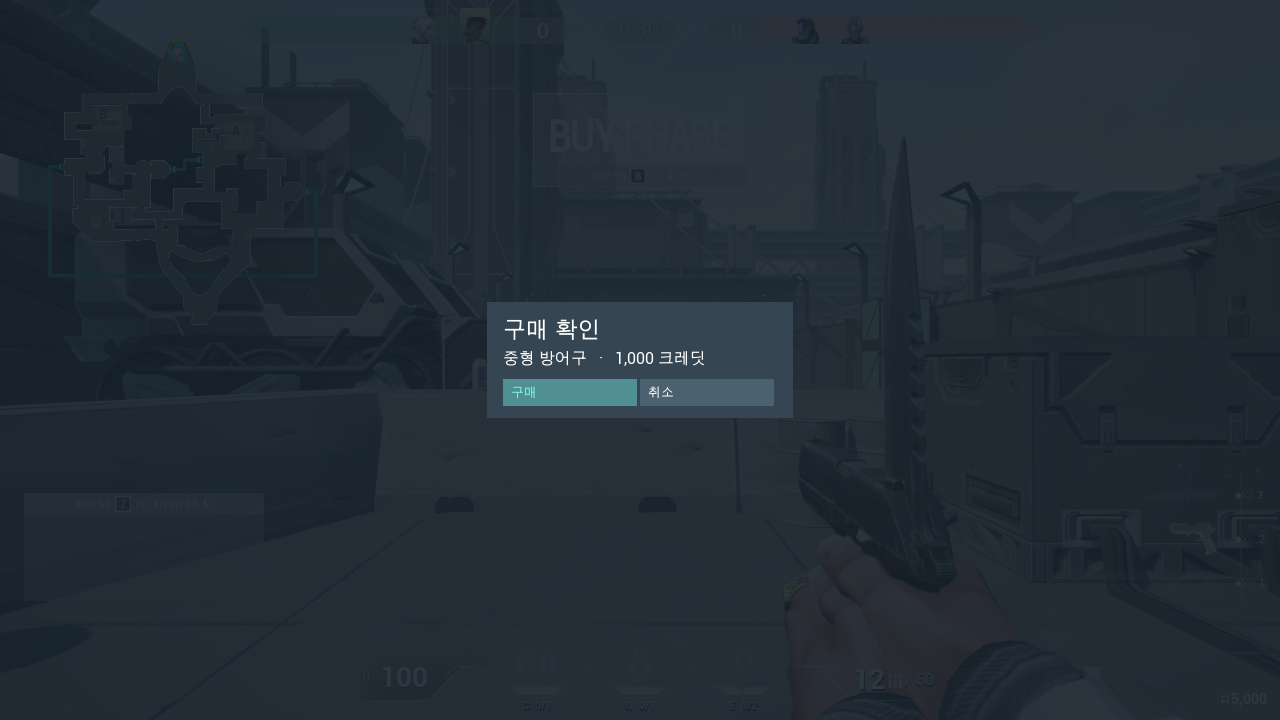
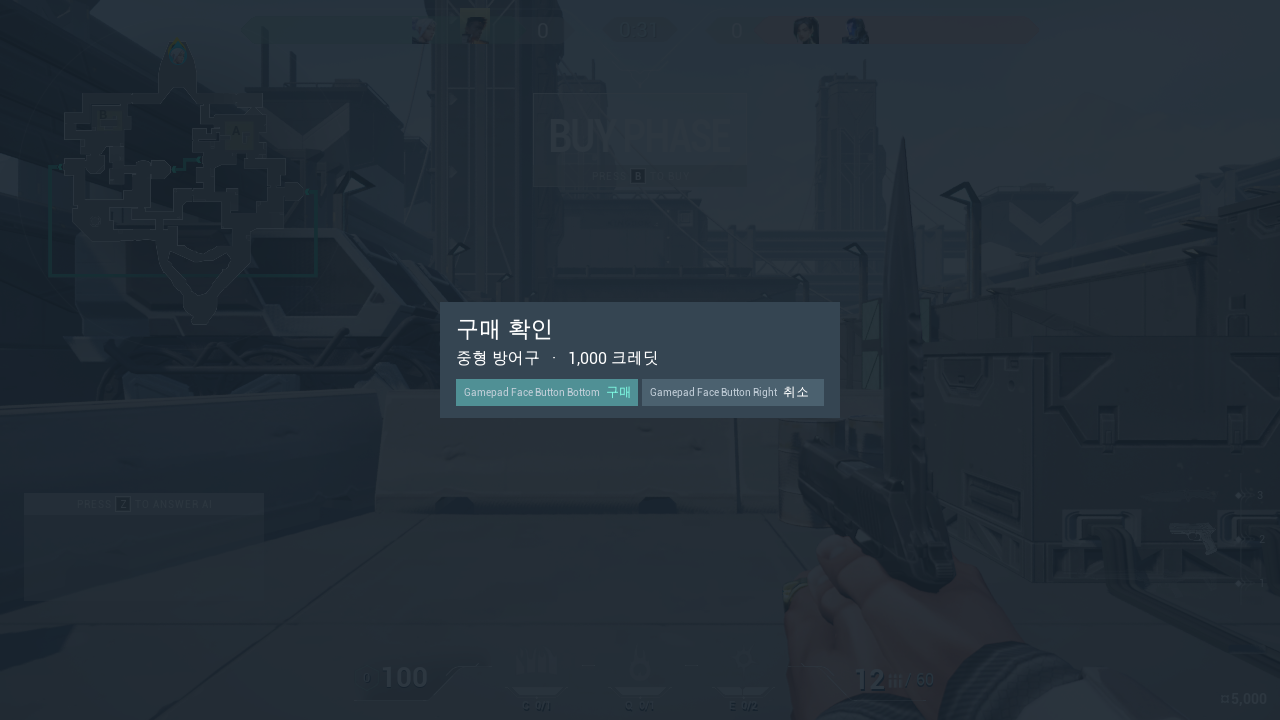
docs(ui): 입력 후속 개선의 설계 근거와 회귀 결과를 기록
- Architecture에 CommonUI 입력 액션, 모달 WBP 계약, 결정 근거 표를 추가한다.
- 요청 번호 정책 변경과 재진입 잠금 제거 근거를 Architecture와 Wiki 4.4에 반영한다.
- 커밋 80a33a81 기준 회귀 52/52 PASS 결과와 패드·키보드 모달 캡처를 추가한다.
- 실물 입력·아이콘·패키지 쿡과 첫 실행 정지 원인 미확인을 NOT RUN 범위로 남긴다.

Changed region(s): [[0.3438, 0.3972, 0.6562, 0.5806]]

diff --git a/Doc/Wiki/4.2_CommonUI-Input-Architecture.md b/Doc/Wiki/4.2_CommonUI-Input-Architecture.md
@@ -6,9 +6,21 @@
 
 ## 화면 계층과 선택 이유
 
-UShopLayer가 UCommonActivatableWidgetStack을 소유하고 UShopScreen이 WBP_MatchMap_ShopUI를 담는다. UShopConfirmation은 별도 Activatable 항목이다. 한 화면을 닫으면 하위 화면과 이전 버튼 포커스로 복귀한다. 게임 조작 중 상시 표시되는 HUD는 기존 UMG와 모델 구독으로 유지했다.
+UShopLayer가 UCommonActivatableWidgetStack을 소유하고 UShopScreen이 WBP_MatchMap_ShopUI를 담는다. UShopConfirmation은 별도 Activatable 항목이고 화면은 WBP_ShopConfirmation이 가진다. 한 화면을 닫으면 하위 화면과 이전 버튼 포커스로 복귀한다. 복귀 대상은 bAutoRestoreFocus로 CommonUI가 저장한다. 게임 조작 중 상시 표시되는 HUD는 기존 UMG와 모델 구독으로 유지했다.
 
 메뉴 활성화와 화면 수명은 CommonUI, 실제 구매 판정은 서버, 상품 클릭의 단순 전달은 기존 Blueprint가 담당한다. 이름의 접두사·접미사를 해석하던 버튼 분류는 명시적인 버튼 바인딩으로 바꿨다. Focusable 속성은 에디터에서 편집한다.
+
+## UI 입력 액션
+
+처음 리팩터링은 CommonUI를 스택·입력 모드·포커스 대상에만 쓰고 뒤로 가기·확인·LB/RB를 화면 코드의 키 판정으로 처리했다. 후속 개선에서 키 판정을 지우고 CommonUI 액션으로 옮겼다.
+
+- DT_UIInputActions에 Confirm·Back·ShopClose·ShopPreviousCategory·ShopNextCategory 행을 둔다. BP_UIInputData가 Default Click·Back을 지정하고 프로젝트 설정(Common Input)이 이를 가리킨다.
+- 상점 화면은 bIsBackHandler로 뒤로 가기를 받고, 상점 키와 LB/RB는 RegisterUIActionBinding으로 등록한다.
+- 상품 확인은 포커스된 버튼의 기본 Accept 처리에 맡겨 패드와 마우스가 같은 클릭 경로를 지난다.
+- 확인 모달의 버튼은 TriggeringInputAction에 Default Click·Back을 지정한다. CommonButton이 바인딩과 키 표시 위치(UCommonActionWidget)를 관리한다.
+- 사용할 수 있는 패드·키보드 아이콘 에셋이 프로젝트와 엔진에 없어 키 이름 텍스트로 표시한다. 입력 방식이 바뀌면 Enter·Esc와 패드 버튼 이름이 바뀐다.
+
+결정 근거와 계약은 [Architecture](https://github.com/chungheonLee0325/VALORANT/blob/main/Doc/UIRefactoring/Architecture.md)에 정리했다.
 
 ## 시작·유지·종료 입력
 
@@ -22,7 +34,7 @@ UAgentInputComponent는 상점 중 Move·Look·Fire·Skill·Weapon Switch의 새
 - [AgentInputComponent.cpp](https://github.com/chungheonLee0325/VALORANT/blob/main/UnrealEngine/Valorant/Source/Valorant/Player/Component/AgentInputComponent.cpp)
 - [AgentPlayerController.cpp](https://github.com/chungheonLee0325/VALORANT/blob/main/UnrealEngine/Valorant/Source/Valorant/Player/AgentPlayerController.cpp)
 
-Slate의 LB/RB·D-pad·A/B를 주입하고 실제 UButton의 포커스를 조회한다. Enhanced Input 액션으로 메뉴 중 차단과 게임 복귀를 검사한다. 실물 패드 검증은 별도 항목이다. [실행 결과](https://github.com/chungheonLee0325/VALORANT/blob/main/Doc/UIRefactoring/RegressionTests.md)
+Slate의 LB/RB·D-pad·A/B를 주입하고 실제 UButton의 포커스를 조회한다. CommonUI 라우터의 활성 바인딩으로 화면·모달 액션을 확인하고, 입력 방식을 바꿔 모달 키 표시가 바뀌는지 본다. Enhanced Input 액션으로 메뉴 중 차단과 게임 복귀를 검사한다. 실물 패드·키보드 입력과 아이콘 표시는 검증하지 않았다. [실행 결과](https://github.com/chungheonLee0325/VALORANT/blob/main/Doc/UIRefactoring/RegressionTests.md)
 
 ## 연결 문서
 

diff --git a/Doc/Wiki/4.5_Multiplayer-Regression-AI.md b/Doc/Wiki/4.5_Multiplayer-Regression-AI.md
@@ -2,7 +2,7 @@
 
 ## 분석과 구현
 
-팀 프로젝트의 기존 위젯과 호출 관계를 조사하고 서버 구매·UI 수명·Actor 정리의 경계를 개선한 개인 후속 작업이다. AI 코딩 에이전트는 코드 탐색·구현·빌드와 문서 작성을 보조했다. AgentMCP는 UE 5.5.4의 정확한 Valorant 작업트리에 연결해 실제 Widget Tree·그래프·바인딩을 읽고 WBP를 수정·컴파일하는 데 사용했다.
+팀 프로젝트의 기존 위젯과 호출 관계를 조사하고 서버 구매·UI 수명·Actor 정리의 경계를 개선한 개인 후속 작업이다. AI 코딩 에이전트는 코드 탐색·구현·빌드와 문서 작성을 보조했다. AgentMCP는 UE 5.5.4의 정확한 Valorant 작업트리에 연결해 실제 Widget Tree·그래프·바인딩을 읽고 WBP를 수정·컴파일하는 데 사용했다. 입력 후속 개선에서는 UI 입력 DataTable·Input Data·모달 WBP를 만들고 BindWidget 계약을 확인했다.
 
 리뷰에서 부착 성공 전에 소유권이 바뀌는 월드 획득 경로를 다시 찾았다. 무기 초기화에서 원격 참조가 준비되기 전 역참조한 크래시도 실제 로그로 추적했다. 에이전트의 결과는 빌드, 코드 검토, 실패 주입과 원격 상태 관찰을 거쳐 반영했다.
 
@@ -19,9 +19,12 @@ Run-UIRegression.ps1은 localhost의 실제 MatchMap에서 호스트 1개와 원
 - 서버 구매 판정·잔액·장비 슬롯과 Actor 수.
 - 원격 복제된 재화·소유권·3인칭 메시와 실제 HUD.
 - 모달 확인·취소와 UButton 포커스.
+- CommonUI 라우터의 활성 액션 바인딩과 입력 방식별 키 표시.
 - 상점 입력 차단과 연속 발사 종료, 눌린 키 해제.
 - 타임아웃 직후 새 구매와 늦은 응답.
 - 스킬 스택 감소, 피격·킬 피드, HUD 재생성.
+
+입력 후속 개선의 첫 두 실행에서 화면용 원격의 게임 스레드가 LB 주입 직후 프레임에서 멈췄다. 계측해 보니 LB 액션 처리와 키 주입 함수는 끝났다. 멈춘 동안 셰이더 컴파일 지연과 거리장 빌드 로그가 이어졌고, 캐시가 채워진 뒤 같은 코드로 전체 검사가 통과했다. 디버거가 없어 정확한 대기 지점은 확인하지 못했다. 멈춘 원격의 연결 종료가 다른 프로세스의 기존 미니맵 크래시로 이어진다는 점은 범위 밖 문제로 남겼다.
 
 HP가 먼저 복제된 프레임에 점수도 도착했을 것으로 가정한 검사가 실패한 적이 있다. 두 데이터 소스가 각각 도착할 때까지 기다린 뒤 UI 값으로 다시 확인했다. 이전 개발 버전의 검사 수를 공개 Release 결과로 복사하지 않고 새 빌드에서 재실행했다.
 

diff --git a/Doc/Wiki/4.4_Server-Purchase-Actor-Lifecycle.md b/Doc/Wiki/4.4_Server-Purchase-Actor-Lifecycle.md
@@ -25,7 +25,9 @@ ABaseInteractor::ServerRPC_PickUp_Implementation(&Agent);
 
 ## 요청·응답
 
-RequestID는 Controller 연결별 증가 번호다. 처리 중 같은 번호는 원래 응답을 공유하고 다른 번호의 재진입에는 거부 결과를 돌려준다. 완료된 번호는 재결제 없이 거부한다. 클라이언트의 10초 타임아웃은 대기 표시를 끝내지만 서버가 이미 처리한 장비와 잔액은 복제로 반영한다.
+RequestID는 Controller 연결별 증가 번호다. 서버는 이미 처리했거나 더 오래된 번호를 재정산 없이 거부한다. 처음에는 처리 중 같은 번호 병합, uint32 래핑 비교, 재진입 잠금까지 두었다. 한 연결의 Reliable 서버 RPC는 한 번씩 순서대로 실행되고, 구매 처리 중 다시 구매를 부르는 C++·Blueprint 경로도 없어 후속 개선에서 제거했다.
+
+번호의 핵심 가치는 클라이언트 UShopViewModel의 대조다. 10초 타임아웃은 대기 표시를 끝내고, 그 뒤 늦게 온 응답은 새 요청을 끝내지 못한다. 서버가 이미 처리한 장비와 잔액은 복제로 반영한다.
 
 ## Actor 수명
 
